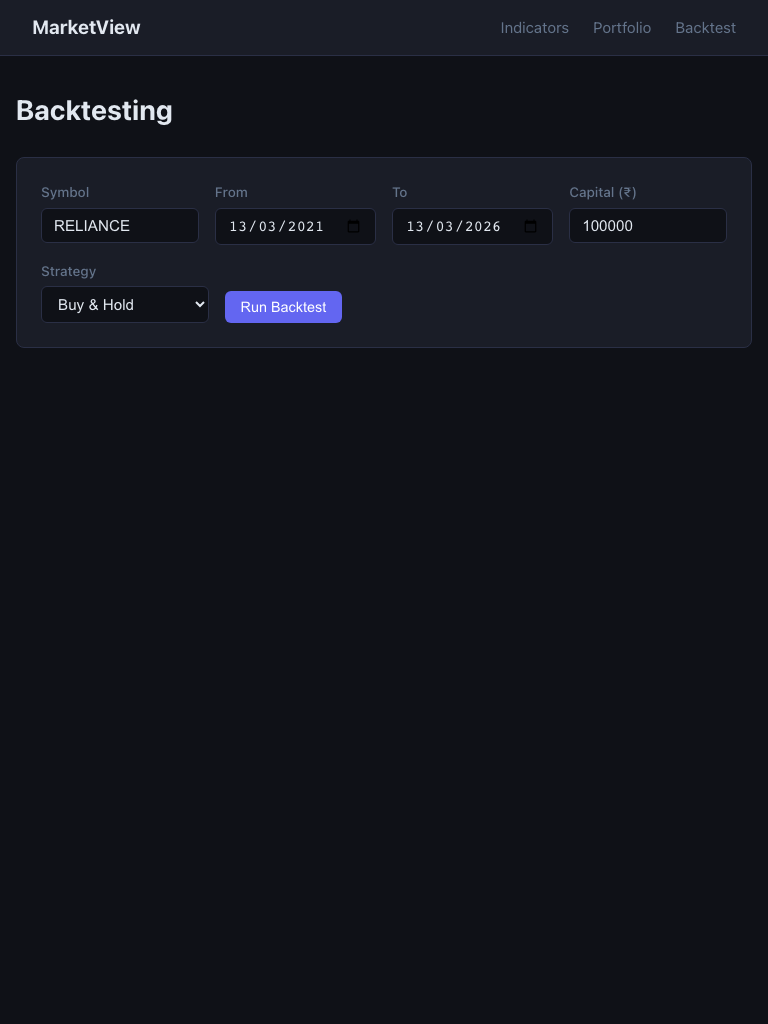
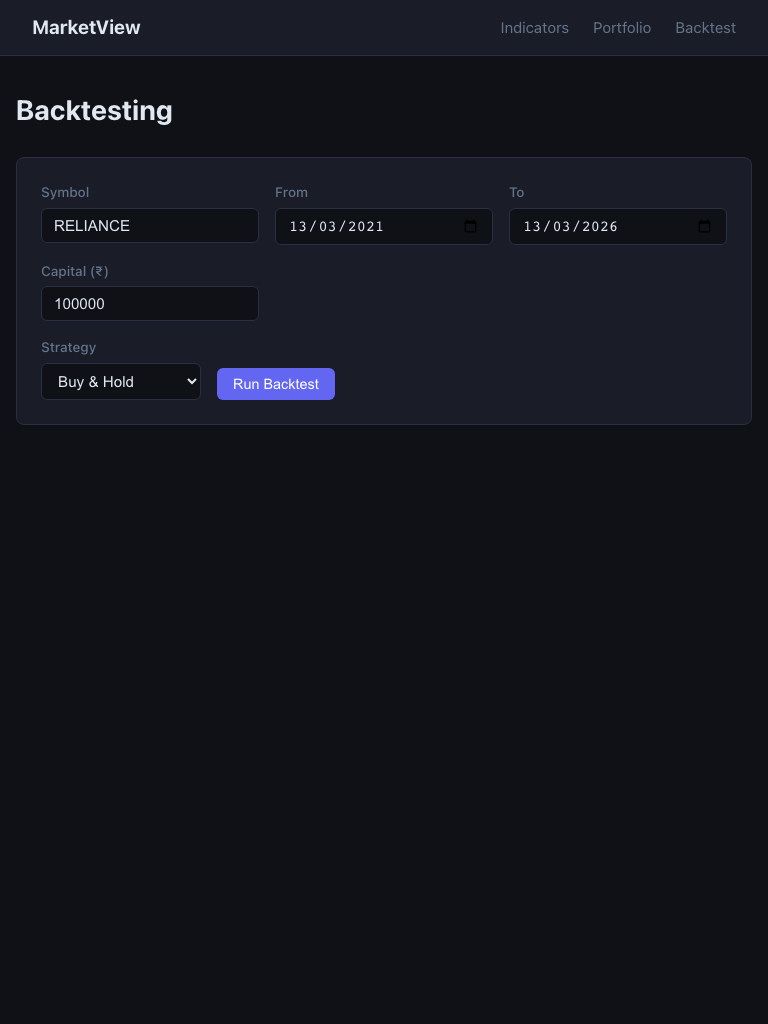
Fix backtest form overflow on mobile and tablet viewports
Replace fixed 4-column grid with auto-fit minmax so fields stack
vertically on small screens. Also switch metrics grid to auto-fit
so the 6 cards wrap on mobile instead of overflowing.

diff --git a/frontend/src/app/backtest/page.tsx b/frontend/src/app/backtest/page.tsx
@@ -183,7 +183,7 @@ export default function BacktestPage() {
 
       <div className="card">
         <form onSubmit={handleSubmit}>
-          <div className="form-row" style={{ gridTemplateColumns: "1fr 1fr 1fr 1fr", gap: "1rem", marginBottom: "1rem" }}>
+          <div className="form-row" style={{ gridTemplateColumns: "repeat(auto-fit, minmax(160px, 1fr))", gap: "1rem", marginBottom: "1rem" }}>
             <div className="form-group" style={{ margin: 0 }}>
               <label>Symbol</label>
               <input
@@ -213,8 +213,8 @@ export default function BacktestPage() {
             </div>
           </div>
 
-          <div className="form-row" style={{ gridTemplateColumns: "1fr 3fr", gap: "1rem", alignItems: "flex-end" }}>
-            <div className="form-group" style={{ margin: 0 }}>
+          <div style={{ display: "flex", flexWrap: "wrap", gap: "1rem", alignItems: "flex-end" }}>
+            <div className="form-group" style={{ margin: 0, minWidth: 160 }}>
               <label>Strategy</label>
               <select
                 value={strategy.name}
@@ -242,7 +242,7 @@ export default function BacktestPage() {
 
       {result && (
         <>
-          <div className="summary-grid" style={{ gridTemplateColumns: "repeat(6, 1fr)" }}>
+          <div className="summary-grid" style={{ gridTemplateColumns: "repeat(auto-fit, minmax(130px, 1fr))" }}>
             <MetricCard
               label="Final Value"
               value={fmt(result.final_value)}
